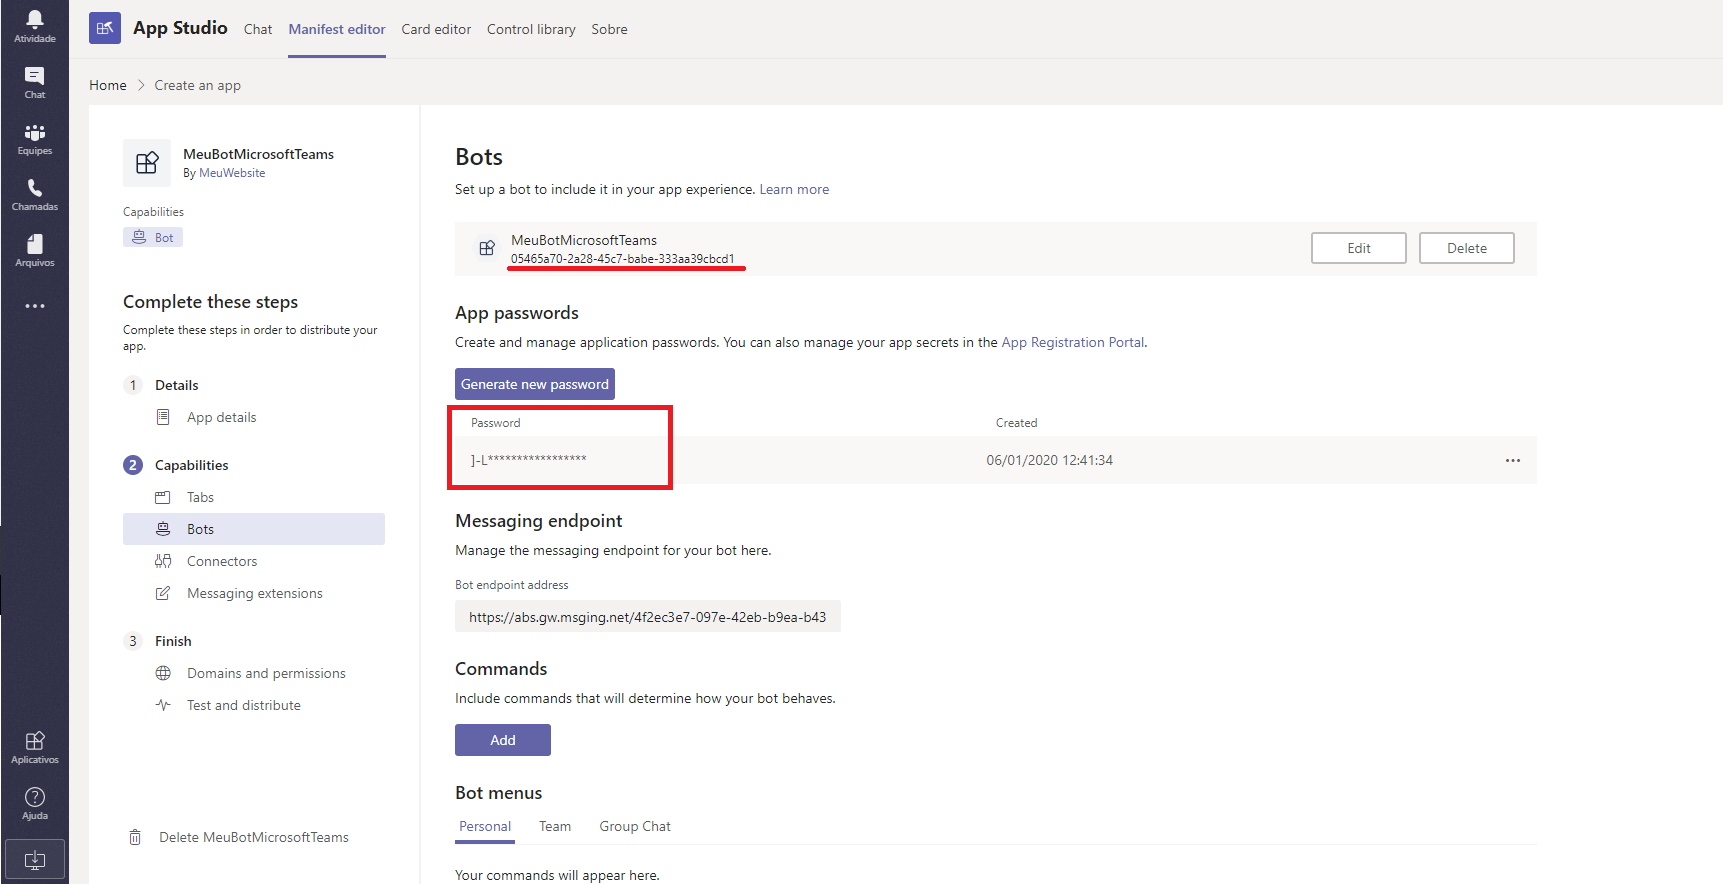
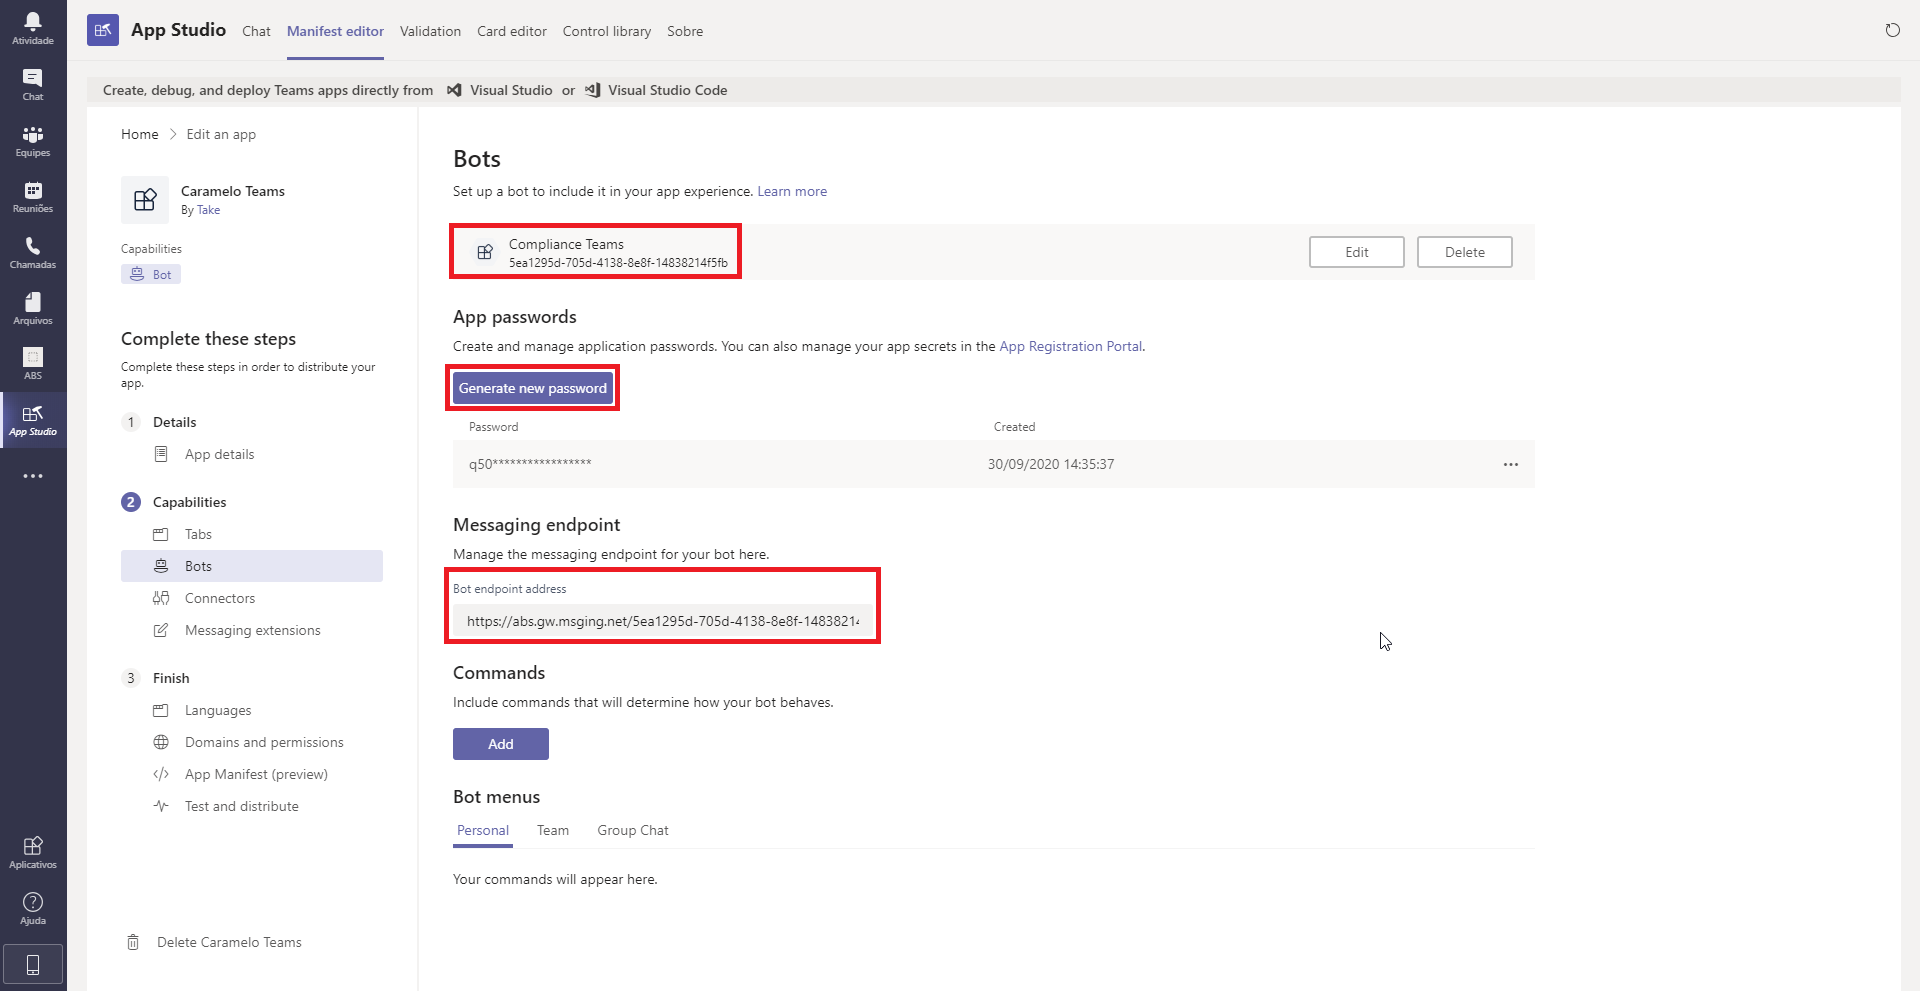
Added step not showed

diff --git a/docs/channels/microsoft-teams/publicando-bot-microsoft-teams.md b/docs/channels/microsoft-teams/publicando-bot-microsoft-teams.md
@@ -15,46 +15,62 @@ sidebar_label: Como publicar seu bot no Microsoft Teams
 ![](/img/channels/microsoft-teams/publicando-bot-microsoft-teams-1.png)
 <br>
 
-**2.** Após a instalação, o App Studio estará disponível para criação de novos aplicativos personalizados.
+**2.** Após a instalação, o App Studio estará disponível para criação de novos aplicativos personalizados. Clique no ícone do App Studio.
 
 ![](/img/channels/microsoft-teams/publicando-bot-microsoft-teams-2.png)
 <br>
 
 **3.** Clique na aba de **Manifest editor** e em seguida selecione a opção **+ Create a new app** para criar seu aplicativo.
 
-![](/img/channels/microsoft-teams/publicando-bot-microsoft-teams-3.png)<br>
+![](/img/channels/microsoft-teams/publicando-bot-microsoft-teams-3.png)
+<br>
 
-**4.** Em **App details** preencha todos os campos obrigatórios e os campos opcionais que desejar. Neste momento os dados não precisam ter relação com o BLiP, portanto sinta-se livre para preecnher como preferir.
+**4.** Em **App details** preencha todos os campos obrigatórios e os campos opcionais que desejar. Neste momento os dados não precisam ter relação com o Take Blip, portanto sinta-se livre para preecnher como preferir.
 
 **5.** Copie o valor do campo **App ID** e salve em um local temporário. Ele será necessário nas próximas etapas.
 
-![](/img/channels/microsoft-teams/publicando-bot-microsoft-teams-4.png)<br>
+![](/img/channels/microsoft-teams/publicando-bot-microsoft-teams-4.png)
+<br>
 
-**6.** No menu lateral esquerdo, selecione a opção **Bots** e clique em **Set up**, conforme apresentado na imagem abaixo. Assim como feito no passo 4 preencha os campos de acordo com as informações do seu bot.
+**6.** No menu lateral esquerdo, selecione a opção **Bots** e clique em **Set up**.
 
-![](/img/channels/microsoft-teams/publicando-bot-microsoft-teams-5.png)<br>
+![](/img/channels/microsoft-teams/publicando-bot-microsoft-teams-5.png)
+<br>
 
-**7.** Finalizada sua configuração inicial, clique no botão **Generate new password**, copie o valor gerado e salve em um local temporário. Ele será necessário nas próximas etapas. **Atenção:** Esse valor só será exibido uma vez.
+**7.** Na janela que se abriu, insira o nome do seu contato inteligente (não é necessário ser igual ao que está no Take Blip), e marque as seguintes opções:
+- *Messaging Bot*
+    - *My bot supports uploading and downloading files*
+- **Scope*
+    - *Personal*
+    - *Team*
+    - *Group Chat*
 
-**8.** Copie o ID do bot (exibido abaixo do nome dele) e salve em um local temporário. Ele será necessário nas próximas etapas.
+![](/img/channels/microsoft-teams/publicando-bot-microsoft-teams-9.png)
+<br>
 
-**9.** O campo **Bot endpoint address** se trata da URL de enpoint do BLiP para o canal Microsoft Teams. Esta é a configuração que define qual URL deverá ser utilizada pelo Teams para enviar as mensagens recebidas pelo seu aplicativo. Por isso, você deverá configurar a URL do BLiP, conforme abaixo:
+**8.** Finalizada sua configuração inicial, copie o ID do bot (exibido abaixo do nome dele) e salve em um local temporário. Ele será necessário nas próximas etapas.
+
+![](/img/channels/microsoft-teams/publicando-bot-microsoft-teams-6.png)
+<br>
+
+**9.** Clique no botão **Generate new password**, copie o valor gerado e salve em um local temporário. Ele será necessário nas próximas etapas. **Atenção:** Esse valor só será exibido uma vez.
+
+**10.** O campo **Bot endpoint address** se trata da URL de enpoint do Take Blip. Esta é a configuração que define qual URL deverá ser utilizada pelo Microsoft Teams para enviar as mensagens eviadas pelos usuários do seu aplicativo. Por isso, você deverá configurar a URL do Take Blip, conforme abaixo (utilize o ID do bot copiado no passo 8):
 
 > [https://abs.gw.msging.net/{{id-do-bot}}](https://abs.gw.msging.net/{{id-do-bot}})
 
-Se o seu contato inteligente (bot) estiver em uma organização, utilize a URL abaixo:
+Se o seu contato inteligente estiver associado a um contrato no Take Blip, utilize a URL abaixo:
 
-> [https://{{id-da-organizacao}}.abs.gw.msging.net/{{id-do-bot}}](https://{{id-da-organizacao}}.abs.gw.msging.net/{{id-do-bot}})
+> [https://{{id-do-contrato}}.abs.gw.msging.net/{{id-do-bot}}](https://{{id-do-contrato}}.abs.gw.msging.net/{{id-do-bot}})
 
-![](/img/channels/microsoft-teams/publicando-bot-microsoft-teams-6.png)<br>
 
-## Configurando o contato inteligente no BLiP
+## Configurando o contato inteligente no Take Blip
 
-Após preecnher todas as informações do Microsoft Teams é preciso configurar seu contato inteligente (bot) no BLiP.
+Após preencher todas as informações do Microsoft Teams é preciso configurar seu contato inteligente no Take Blip.
 
-**10.** Acesse seu contato inteligente no BLiP, e vá para a tela de configurações avançadas. Caso não saiba como acessar as configurações avançadas do seu bot, [clique aqui](/docs/management/configuracoes-avancadas-bot).
+**11.** Acesse seu contato inteligente no Take Blip, e vá para a tela de configurações avançadas. Caso não saiba como acessar as configurações avançadas, [clique aqui](/docs/management/configuracoes-avancadas-bot).
 
-**11.** Utilizando sempre o domínio `postmaster@abs.gw.msging.net`, adicione as chaves de configuração do microsoft Teams substituindo os valores com os seus dados, conforme demonstrado na tabela abaixo.
+**12.** Utilizando sempre o domínio `postmaster@abs.gw.msging.net`, adicione as chaves de configuração do Microsoft Teams substituindo os valores com os seus dados, conforme demonstrado na tabela abaixo.
 
 | Domínio                      | Chave                 | Valor        |
 | ---------------------------- | --------------------- | ------------ |
@@ -63,10 +79,10 @@ Após preecnher todas as informações do Microsoft Teams é preciso configurar 
 | postmaster@abs.gw.msging.net | AccountExternalId     | ID-DO-BOT    |
 
 - **ApplicationId** - App ID copiado no passo 5.
-- **ApplicationPassword** - *Password* copiado no passo 7.
-- **AccountExternalId** - ID do bot copiado no passo 8, e utilizado para configurar o **Bot endpoint address** no passo 9.
+- **ApplicationPassword** - *Password* copiado no passo 9.
+- **AccountExternalId** - ID do bot copiado no passo 8, e utilizado para configurar o **Bot endpoint address** no passo 10.
 
-**12.** Com objetivo ter uma integração ainda melhor do BLiP com o Teams, outras variáveis são necessárias para rotulação do tipo de conteúdo trafegado, são elas: **AudioSentence**, **DocumentSentence**, **GifSentence**, **VideoSentence**, **WeblinkSentence**, **TextButton**. Quando um destes tipos de conteúdos é enviado, o rótulo apresentado adapta-se ao valor preenchido nas configurações avançadas. Sinta-se livre para preencher os valores da forma que melhor lhe convém.
+**13.** Com objetivo ter uma integração ainda melhor do Take Blip com o Teams, outras variáveis são necessárias para rotulação do tipo de conteúdo trafegado, são elas: **AudioSentence**, **DocumentSentence**, **GifSentence**, **VideoSentence**, **WeblinkSentence**, **TextButton**. Quando um destes tipos de conteúdos é enviado, o rótulo apresentado adapta-se ao valor preenchido nas configurações avançadas. Sinta-se livre para preencher os valores da forma que melhor lhe convém.
 
 | Domínio                      | Chave            | Valor                      |
 | ---------------------------- | ---------------- | -------------------------- |
@@ -80,11 +96,11 @@ Após preecnher todas as informações do Microsoft Teams é preciso configurar 
 
 ## Testando o seu contato inteligente no Teams
 
-**13.** No menu lateral esquerdo, selecione a opção **Test and distribute** e clique em **Download**, conforme apresentado na imagem abaixo. Será feito o download de um arquivo com um "pacote de aplicativo".
+**14.** No menu lateral esquerdo, selecione a opção **Test and distribute** e clique em **Download**, conforme apresentado na imagem abaixo. Será feito o download de um arquivo com um "pacote de aplicativo".
 
 ![](/img/channels/microsoft-teams/publicando-bot-microsoft-teams-7.png)<br>
 
-**14.** Volte à aba de aplicativos, clique na opção **Carregar um aplicativo personalizado** e escolha o arquivo baixado no passo 13. Caso algum erro ocorra ao escolher o arquivo, verifique se todas as informações preenchidas durante as configurações do contato inteligente no Microsoft Teams estão corretas. Repita o passo 13 e 14 se algum ajuste foi necessário.
+**15.** Volte à aba de aplicativos, clique na opção **Carregar um aplicativo personalizado** e escolha o arquivo baixado no passo 13. Caso algum erro ocorra ao escolher o arquivo, verifique se todas as informações preenchidas durante as configurações do contato inteligente no Microsoft Teams estão corretas. Repita o passo 14 e 15 se algum ajuste foi necessário.
 
 ![](/img/channels/microsoft-teams/publicando-bot-microsoft-teams-8.png)<br>
 
